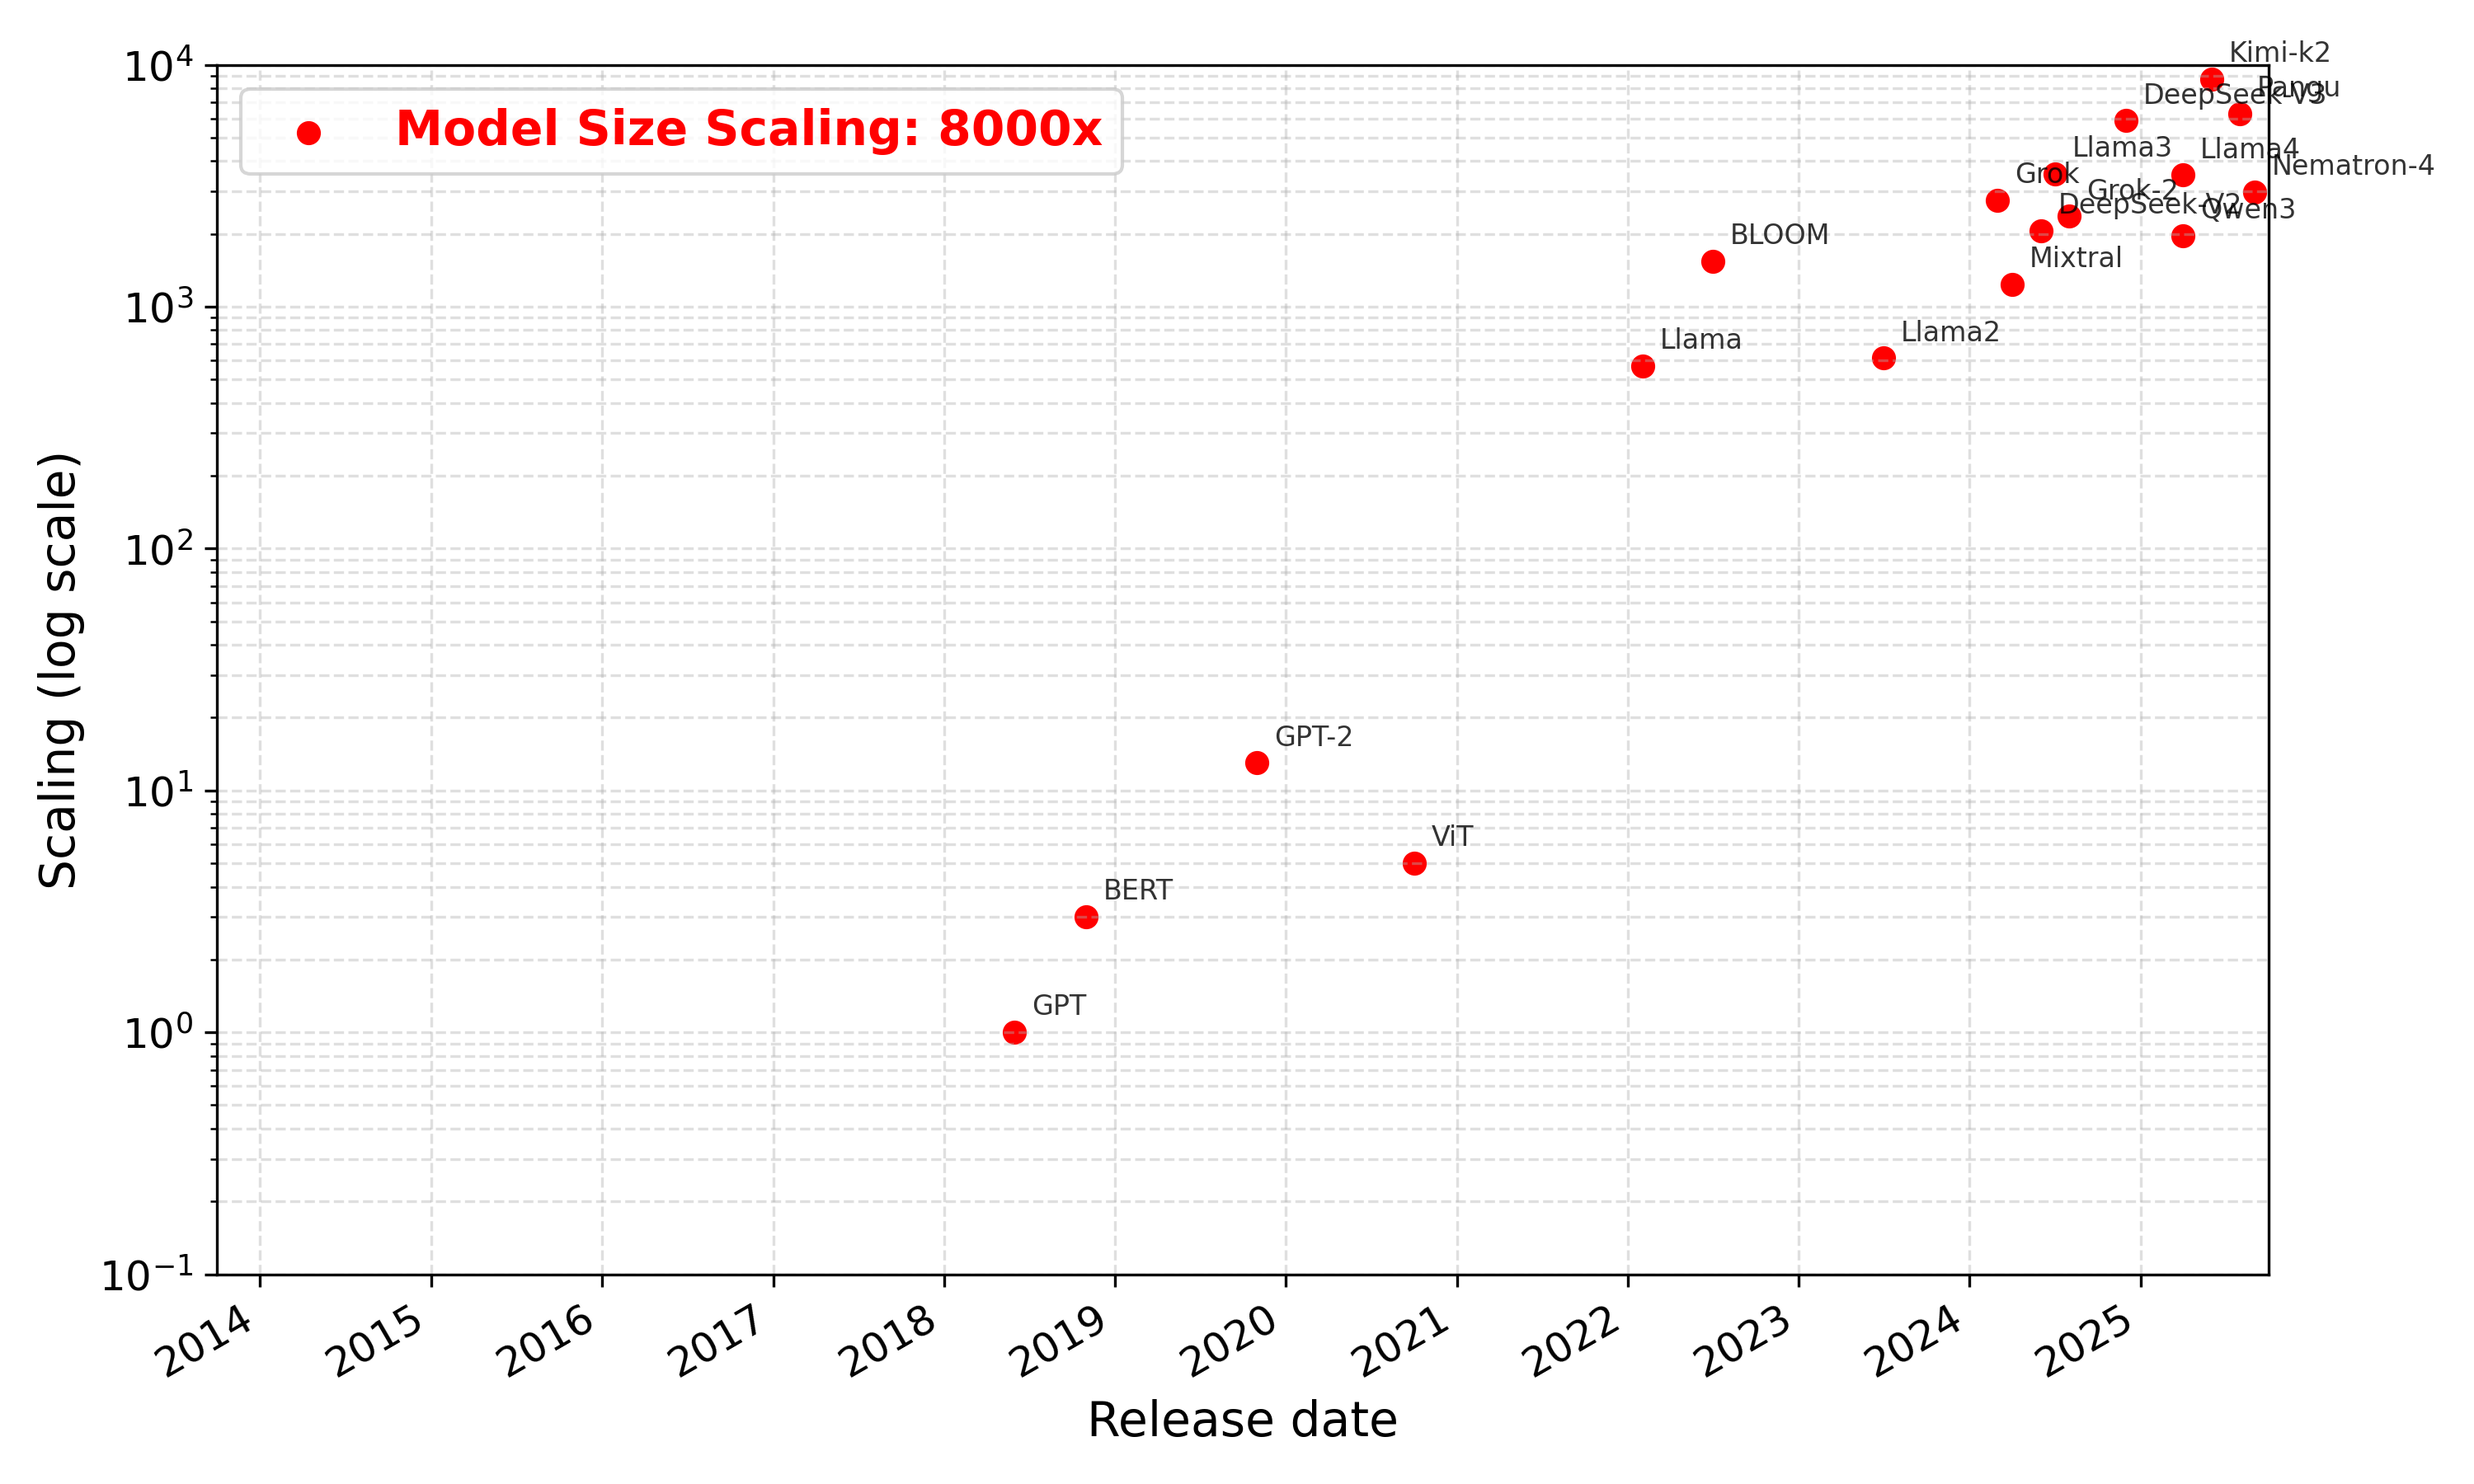
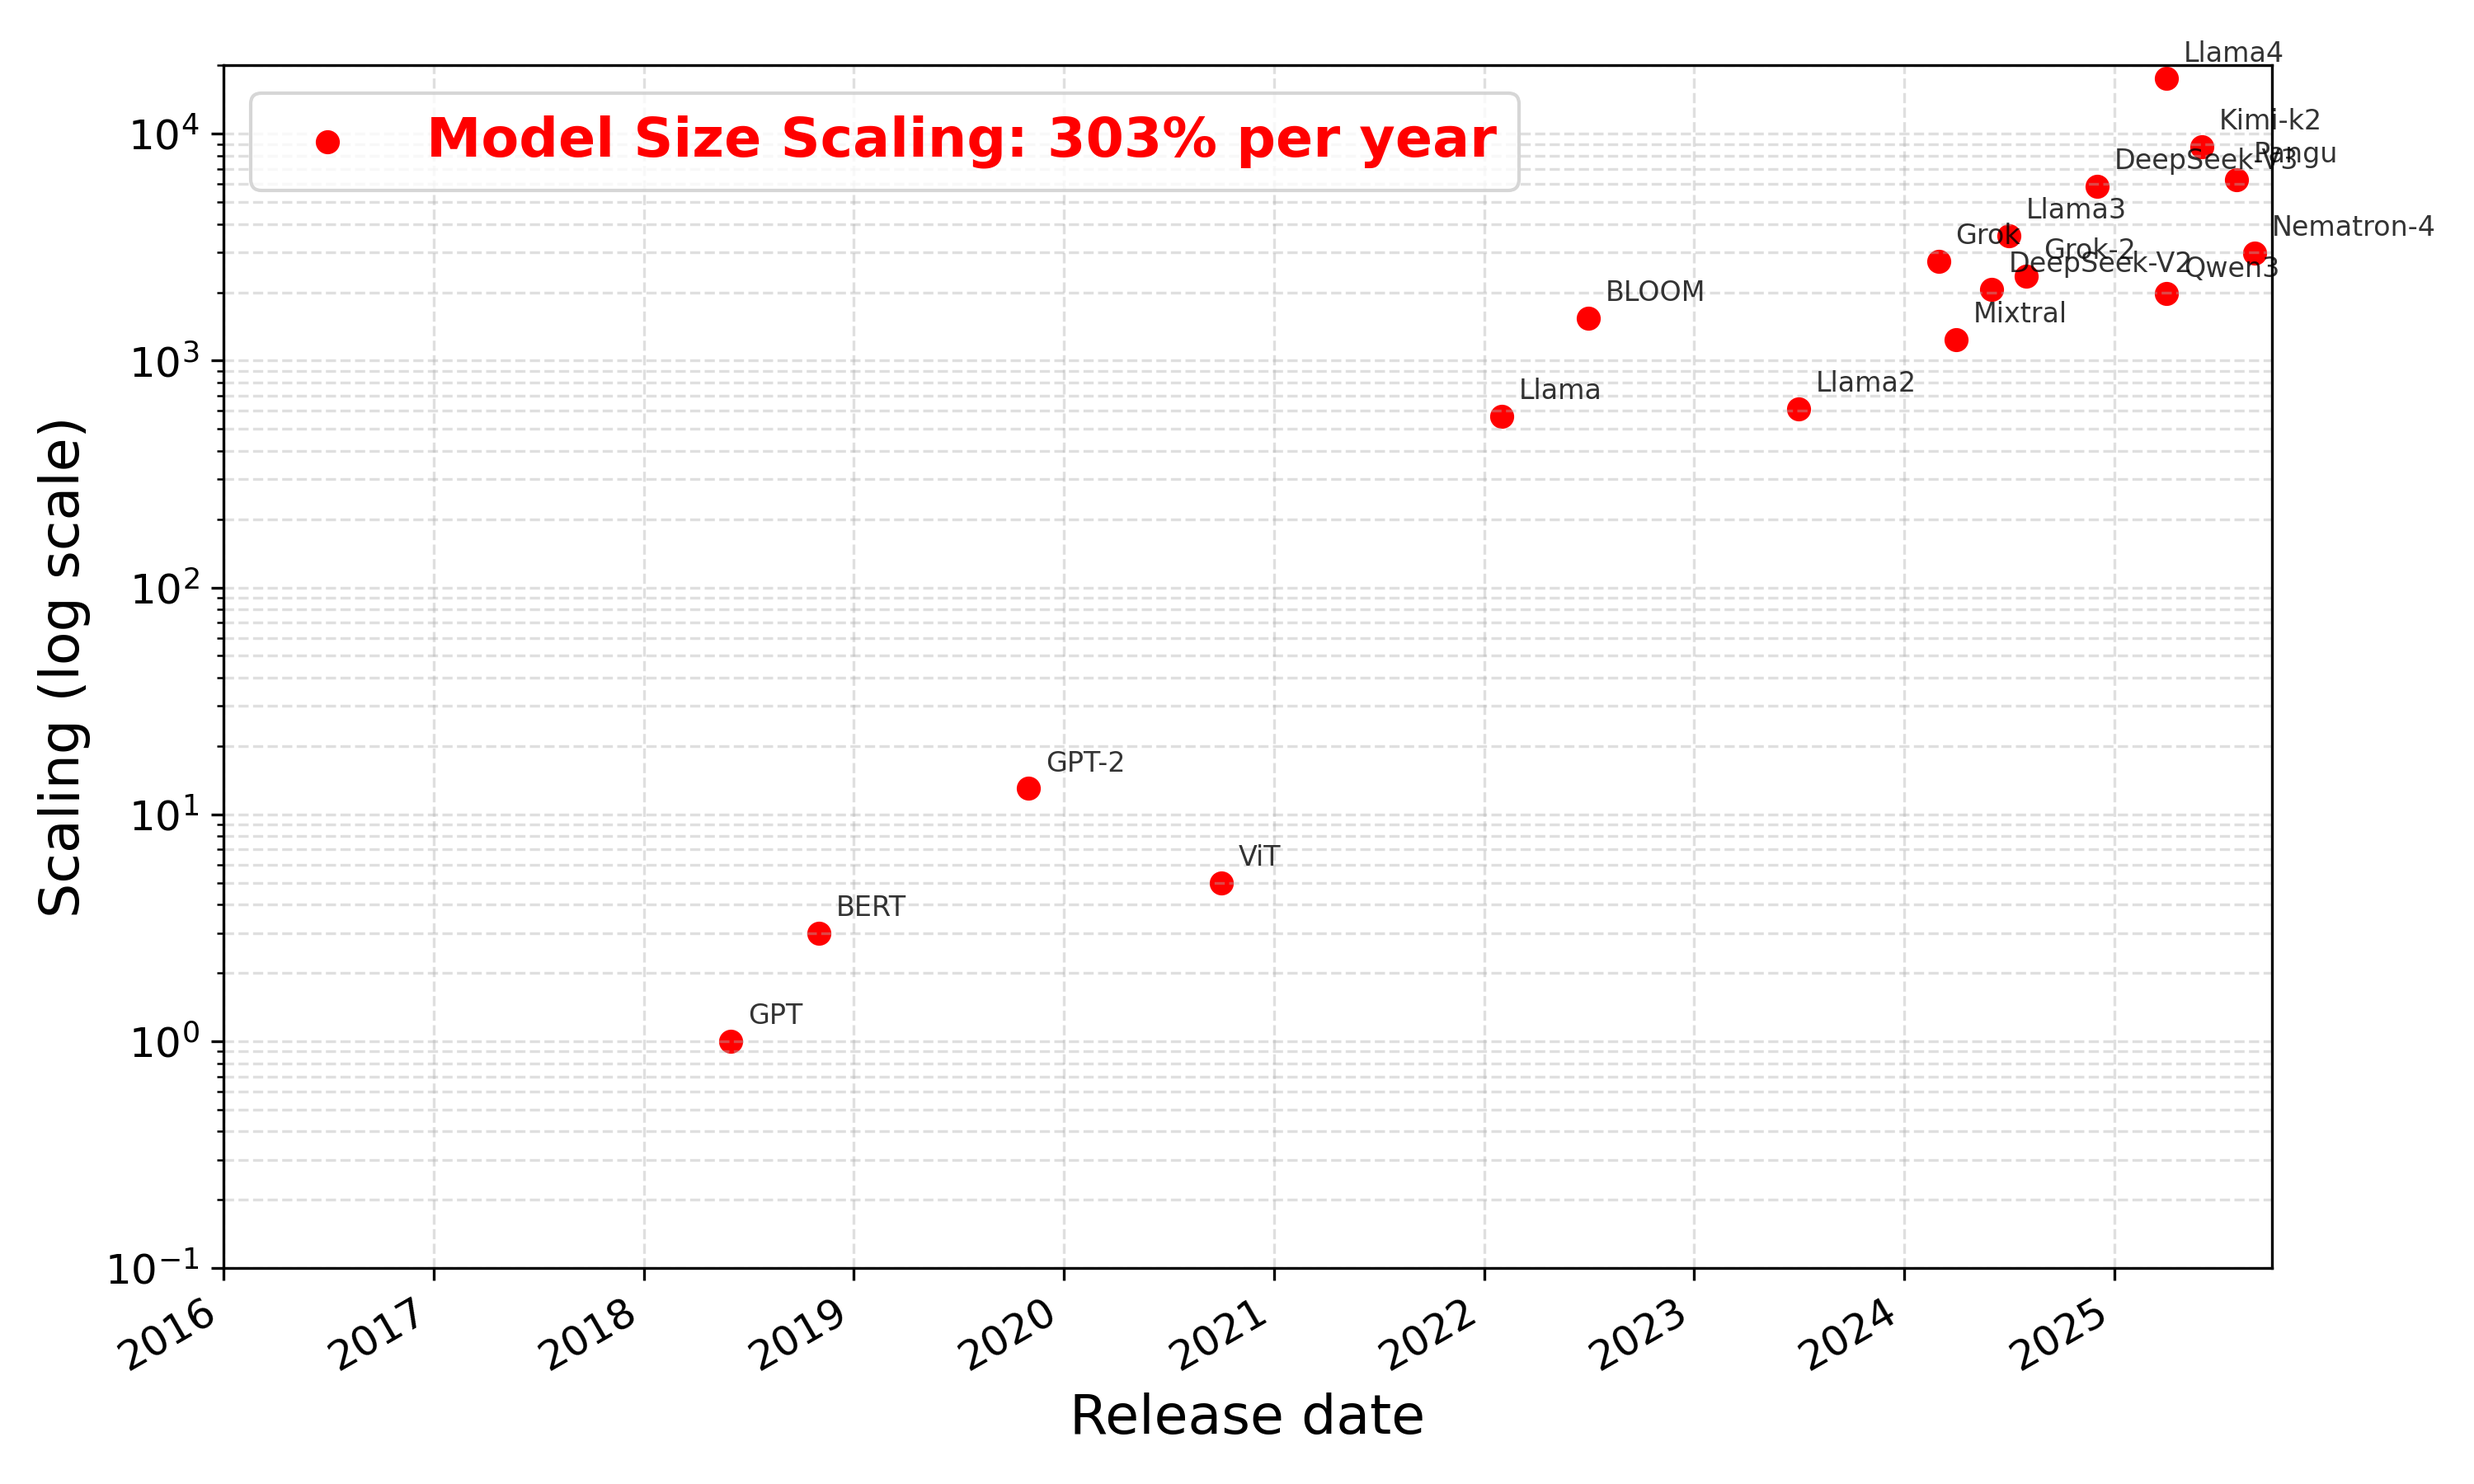
power plot

diff --git a/LLM_size_vs_hardware.py b/LLM_size_vs_hardware.py
@@ -26,7 +26,7 @@ model_rows = [
     ("Llama3", "Jul-24", 3545),
     ("DeepSeek-V3", "Dec-24", 5873),
     ("Qwen3", "Apr-25", 1969),
-    ("Llama4", "Apr-25", 3501),
+    ("Llama4", "Apr-25", 17504),
     ("Kimi-k2", "Jun-25", 8752),
     ("Pangu", "Aug-25", 6284),
     ("Nematron-4", "Sep-25", 2976),
@@ -41,31 +41,29 @@ hardware_rows = [
     ("MI100", "Nov-20", 10),
     ("MI250X", "Nov-21", 20),
     ("TPUv4", "Dec-21", 14),
-    ("H100", "Sep-22", 104),
-    ("MI300X", "Dec-23", 138),
-    ("TPUv5p", "Dec-23", 48),
-    ("B200", "Oct-24", 485),
-    ("TPUv6", "Dec-24", 97),
-    ("MI325X", "Jun-24", 138),
-    ("TPUv6", "Dec-24", 97),   # repeated in the sheet; keep as-is
-    ("MI350X", "Jun-25", 486),
-    ("TPUv7", "Oct-25", 243),
+    ("H100", "Sep-22", 52),
+    ("MI300X", "Dec-23", 69),
+    ("TPUv5p", "Dec-23", 24),
+    ("B200", "Oct-24", 135),
+    ("TPUv6", "Dec-24", 48),
+    ("MI350X", "Jun-25", 122),
+    ("TPUv7", "Oct-25", 121),
 ]
 
 dram_bandwidth_rows = [
-    ("HBM", "Oct-13", 1),
-    ("HBM2", "Jan-16", 3),
-    ("HBM2E", "Aug-19", 5),
-    ("HBM3", "Jan-22", 10),
-    ("HBM3E", "May-23", 19),
-    ("HBM4", "Apr-25", 32),
+    # ("HBM", "Oct-13", 1),
+    ("HBM2", "Jan-16", 1),
+    ("HBM2E", "Aug-19", 2),
+    ("HBM3", "Jan-22", 4),
+    ("HBM3E", "May-23", 8),
+    ("HBM4", "Apr-25", 13),
 ]
 
 dram_capacity_rows = [
-    ("HBM", "Oct-13", 1),
-    ("HBM2", "Jan-16", 2),
-    ("HBM2E", "Aug-19", 4),
-    ("HBM3", "Jan-22", 6),
+    # ("HBM", "Oct-13", 1),
+    ("HBM2", "Jan-16", 1),
+    ("HBM2E", "Aug-19", 3),
+    ("HBM3", "Jan-22", 5),
     ("HBM3E", "May-23", 9),
     ("HBM4", "Apr-25", 16),
 ]
@@ -80,11 +78,11 @@ interconnect_rows = [
 
 df = pd.concat(
     [
-        make_df(model_rows, "Model Size Scaling: 8000x"),
-        make_df(hardware_rows, "Hardware TFLOPS Scaling: 500x"),
-        make_df(interconnect_rows, "Interconnect Bandwidth Scaling: 10x"),
-        make_df(dram_bandwidth_rows, "DRAM Bandwidth Scaling: 30x"),
-        make_df(dram_capacity_rows, "DRAM Capacity Scaling: 16x"),
+        make_df(model_rows, "Model Size Scaling: 303% per year"),
+        make_df(hardware_rows, "Hardware TFLOPS Scaling: 63% per year"),
+        make_df(interconnect_rows, "Interconnect Bandwidth Scaling: 27% per year"),
+        make_df(dram_bandwidth_rows, "DRAM Bandwidth Scaling: 21% per year"),
+        make_df(dram_capacity_rows, "DRAM Capacity Scaling: 23% per year"),
     ],
     ignore_index=True,
 )
@@ -92,7 +90,7 @@ df = pd.concat(
 # Create five separate figures
 # Define colors for each group
 colors = ['red', 'blue', 'orange', 'green', 'purple']
-group_names = ["Model Size Scaling: 8000x", "Hardware TFLOPS Scaling: 500x", "Interconnect Bandwidth Scaling: 10x", "DRAM Bandwidth Scaling: 30x", "DRAM Capacity Scaling: 16x"]
+group_names = ["Model Size Scaling: 303% per year", "Hardware TFLOPS Scaling: 63% per year", "Interconnect Bandwidth Scaling: 27% per year", "DRAM Bandwidth Scaling: 21% per year", "DRAM Capacity Scaling: 23% per year"]
 
 # Calculate overall date range for consistent x-axis across all figures
 overall_min_date = df["date"].min()
@@ -120,11 +118,11 @@ def create_plot(groups_to_include, title_suffix, figure_num):
     
     # Axes formatting
     ax.set_yscale("log")
-    ax.set_ylim(0.1, 10000)
+    ax.set_ylim(0.1, 20000)
     ax.set_xlim(overall_min_date, overall_max_date)  # Set consistent x-axis range
-    ax.set_xlabel("Release date", fontsize=14)
-    ax.set_ylabel("Scaling (log scale)", fontsize=14)
-    # ax.set_title(f"Figure {figure_num}: {title_suffix}", fontsize=14)
+    ax.set_xlabel("Release date", fontsize=16)
+    ax.set_ylabel("Scaling (log scale)", fontsize=16)
+    # ax.set_title(f"Figure {figure_num}: {title_suffix}", fontsize=16)
     
     # X axis formatting for years
     ax.xaxis.set_major_locator(mdates.YearLocator(base=1))
@@ -132,7 +130,7 @@ def create_plot(groups_to_include, title_suffix, figure_num):
     fig.autofmt_xdate()
     
     ax.grid(True, which="both", linestyle="--", alpha=0.4)
-    legend = ax.legend(loc="upper left", fontsize=14)
+    legend = ax.legend(loc="upper left", fontsize=16)
     
     # Make legend text bold and set colors to match dots
     for text in legend.get_texts():
@@ -149,16 +147,21 @@ def create_plot(groups_to_include, title_suffix, figure_num):
     plt.savefig(f"LLM_size_vs_hardware_figure_{figure_num}.png", dpi=300)
 
 # Figure 1: Only model scaling
-create_plot(["Model Size Scaling: 8000x"], "Model Scaling Only", 1)
+create_plot(["Model Size Scaling: 303% per year"], "Model Scaling Only", 1)
 
 # Figure 2: Model and Hardware TFLOPS scalings
-create_plot(["Model Size Scaling: 8000x", "Hardware TFLOPS Scaling: 500x"], "Model and Hardware TFLOPS Scaling", 2)
+create_plot(["Model Size Scaling: 303% per year", "Hardware TFLOPS Scaling: 63% per year"], "Model and Hardware TFLOPS Scaling", 2)
 
 # Figure 3: Model, Hardware TFLOPS and Interconnect BW Scaling
-create_plot(["Model Size Scaling: 8000x", "Hardware TFLOPS Scaling: 500x", "Interconnect Bandwidth Scaling: 10x"], "Model, Hardware TFLOPS and Interconnect BW Scaling", 3)
+create_plot(["Model Size Scaling: 303% per year", "Hardware TFLOPS Scaling: 63% per year", "Interconnect Bandwidth Scaling: 27% per year"], "Model, Hardware TFLOPS and Interconnect BW Scaling", 3)
 
 # Figure 4: Add DRAM Bandwidth Scaling
-create_plot(["Model Size Scaling: 8000x", "Hardware TFLOPS Scaling: 500x", "Interconnect Bandwidth Scaling: 10x", "DRAM Bandwidth Scaling: 30x"], "All Four Scalings", 4)
+create_plot(["Model Size Scaling: 303% per year", "Hardware TFLOPS Scaling: 63% per year", "Interconnect Bandwidth Scaling: 27% per year", "DRAM Bandwidth Scaling: 21% per year"], "All Four Scalings", 4)
 
 # Figure 5: Model, Hardware TFLOPS, DRAM BW and Capacity (no interconnect)
-create_plot(["Model Size Scaling: 8000x", "Hardware TFLOPS Scaling: 500x", "DRAM Bandwidth Scaling: 30x", "DRAM Capacity Scaling: 16x"], "Model, Hardware TFLOPS, DRAM BW and Capacity", 5)
+create_plot(["Model Size Scaling: 303% per year", "Hardware TFLOPS Scaling: 63% per year", "DRAM Bandwidth Scaling: 21% per year", "DRAM Capacity Scaling: 23% per year"], "Model, Hardware TFLOPS, DRAM BW and Capacity", 5)
+
+
+# Figure 2: Model, Hardware TFLOPS scalings and DRAM BW
+create_plot(["Model Size Scaling: 303% per year", "Hardware TFLOPS Scaling: 63% per year", "DRAM Bandwidth Scaling: 21% per year"], "Model, Hardware TFLOPS Scaling and DRAM BW", 6)
+

diff --git a/Power_figure.py b/Power_figure.py
@@ -1,0 +1,208 @@
+"""Plot global data center Energy consumption projections."""
+
+from __future__ import annotations
+
+import matplotlib.pyplot as plt
+
+plt.rcParams.update({
+	"font.size": 16,
+	"axes.labelsize": 18,
+	"xtick.labelsize": 16,
+	"ytick.labelsize": 16,
+})
+
+
+YEARS = [
+	2015,
+	2016,
+	2017,
+	2018,
+	2019,
+	2020,
+	2021,
+	2022,
+	2023,
+	2024,
+	2025,
+	2026,
+	2027,
+	2028,
+	2029,
+	2030,
+]
+
+CONSUMPTION_TWH = [
+	200,
+	200,
+	200,
+	205,
+	205,
+	225,
+	270,
+	290,
+	360,
+	415,
+	477,
+	549,
+	631,
+	726,
+	835,
+	960,
+]
+
+COUNTRY_CONSUMPTION_TWH = {
+	"China": 8900,
+	"United States": 4100,
+	"India": 1500,
+	"Russia": 1000,
+	"Japan": 913.2,
+	"Brazil": 610.4,
+	"South Korea": 564.2,
+	"Canada": 549.8,
+	"Germany": 475.9,
+	"France": 412.6,
+}
+
+
+IDX_2019 = YEARS.index(2019)
+IDX_2024 = YEARS.index(2024)
+
+YEARS_PRE_2020 = YEARS[: IDX_2019 + 1]
+DATA_PRE_2020 = CONSUMPTION_TWH[: IDX_2019 + 1]
+
+YEARS_2020_2024 = YEARS[IDX_2019: IDX_2024 + 1]
+DATA_2020_2024 = CONSUMPTION_TWH[IDX_2019: IDX_2024 + 1]
+
+YEARS_PROJECTED = YEARS[IDX_2024:]
+DATA_PROJECTED = CONSUMPTION_TWH[IDX_2024:]
+
+X_LIMITS = (YEARS[0], YEARS[-1])
+Y_MAX = max(CONSUMPTION_TWH) * 1.05
+X_MARGIN = 0.5
+
+
+def _apply_axis_formatting() -> None:
+	plt.xlabel("Year")
+	plt.ylabel("Energy Consumption (TWh)")
+	plt.xlim(X_LIMITS[0] - X_MARGIN, X_LIMITS[1] + X_MARGIN)
+	plt.ylim(0, Y_MAX)
+	plt.grid(alpha=0.3)
+	plt.xticks(fontsize=18)
+	plt.yticks(fontsize=18)
+	plt.legend(loc="upper left", fontsize=18)
+	plt.tight_layout()
+
+
+def plot_historical_only() -> None:
+	"""Plot only the historical data up to 2024."""
+
+	plt.figure(figsize=(10, 6))
+	# plt.plot(
+	# 	YEARS_PRE_2020,
+	# 	DATA_PRE_2020,
+	# 	color="tab:blue",
+	# 	linewidth=2,
+	# 	marker="o",
+	# 	label="2015-2019 (historical)",
+	# )
+	plt.plot(
+		YEARS_PRE_2020 + YEARS_2020_2024,
+		DATA_PRE_2020 + DATA_2020_2024,
+		color="tab:blue",
+		linewidth=2,
+		marker="o",
+		label="2015-2024 (historical)",
+	)
+	_apply_axis_formatting()
+	plt.savefig("power_consumption_historical.png", dpi=300)
+
+
+def plot_with_projection() -> None:
+	"""Plot the historical data plus projections from 2025 onward."""
+
+	plt.figure(figsize=(10, 6))
+	# plt.plot(
+	# 	YEARS_PRE_2020,
+	# 	DATA_PRE_2020,
+	# 	color="tab:blue",
+	# 	linewidth=2,
+	# 	marker="o",
+	# 	label="2015-2019 (historical)",
+	# )
+	plt.plot(
+		YEARS_PRE_2020 + YEARS_2020_2024,
+		DATA_PRE_2020 + DATA_2020_2024,
+		color="tab:blue",
+		linewidth=2,
+		marker="o",
+		label="2015-2024 (historical)",
+	)
+	plt.plot(
+		YEARS_PROJECTED,
+		DATA_PROJECTED,
+		color="tab:blue",
+		linewidth=2,
+		linestyle="--",
+		marker="o",
+		label="2025-2030 (projected)",
+	)
+	_apply_axis_formatting()
+	plt.savefig("power_consumption_with_projection.png", dpi=300)
+
+
+def plot_country_comparison() -> None:
+	"""Plot a horizontal bar chart comparing country-level consumption."""
+
+	sorted_items = sorted(
+		COUNTRY_CONSUMPTION_TWH.items(), key=lambda item: item[1], reverse=False
+	)
+	countries, values = zip(*sorted_items)
+
+	fig, (ax_close, ax_far) = plt.subplots(
+		1,
+		2,
+		sharey=True,
+		figsize=(8, 10),
+		gridspec_kw={"width_ratios": [3, 1]},
+	)
+
+	bar_kwargs = {"color": "tab:blue"}
+	for ax in (ax_close, ax_far):
+		ax.barh(countries, values, **bar_kwargs)
+		ax.invert_yaxis()
+		ax.grid(axis="x", alpha=0.3, linestyle=":")
+		ax.set_facecolor("white")
+		ax.tick_params(axis="y", labelsize=24)
+		ax.tick_params(axis="x", labelsize=16)
+    
+
+	# ax_close.set_xlabel("Energy Consumption (TWh)", fontsize=22)
+	ax_close.set_xlim(0, 1800)
+	ax_far.set_xlim(3500, max(values) + 500)
+
+	ax_far.yaxis.set_visible(False)
+	ax_far.spines["left"].set_visible(False)
+	ax_close.spines["right"].set_visible(False)
+
+	d = 0.02
+	kwargs = dict(transform=ax_close.transAxes, color="k", clip_on=False)
+	ax_close.plot((1, 1), (-d, +d), **kwargs)
+	ax_close.plot((1, 1), (1 - d, 1 + d), **kwargs)
+	kwargs.update(transform=ax_far.transAxes)
+	ax_far.plot((0, 0), (-d, +d), **kwargs)
+	ax_far.plot((0, 0), (1 - d, 1 + d), **kwargs)
+
+	plt.tight_layout()
+	plt.savefig("power_consumption_countries.png", dpi=300)
+
+
+def main() -> None:
+	"""Render both projections per user specification."""
+
+	plot_historical_only()
+	plot_with_projection()
+	plot_country_comparison()
+
+
+if __name__ == "__main__":
+	main()
